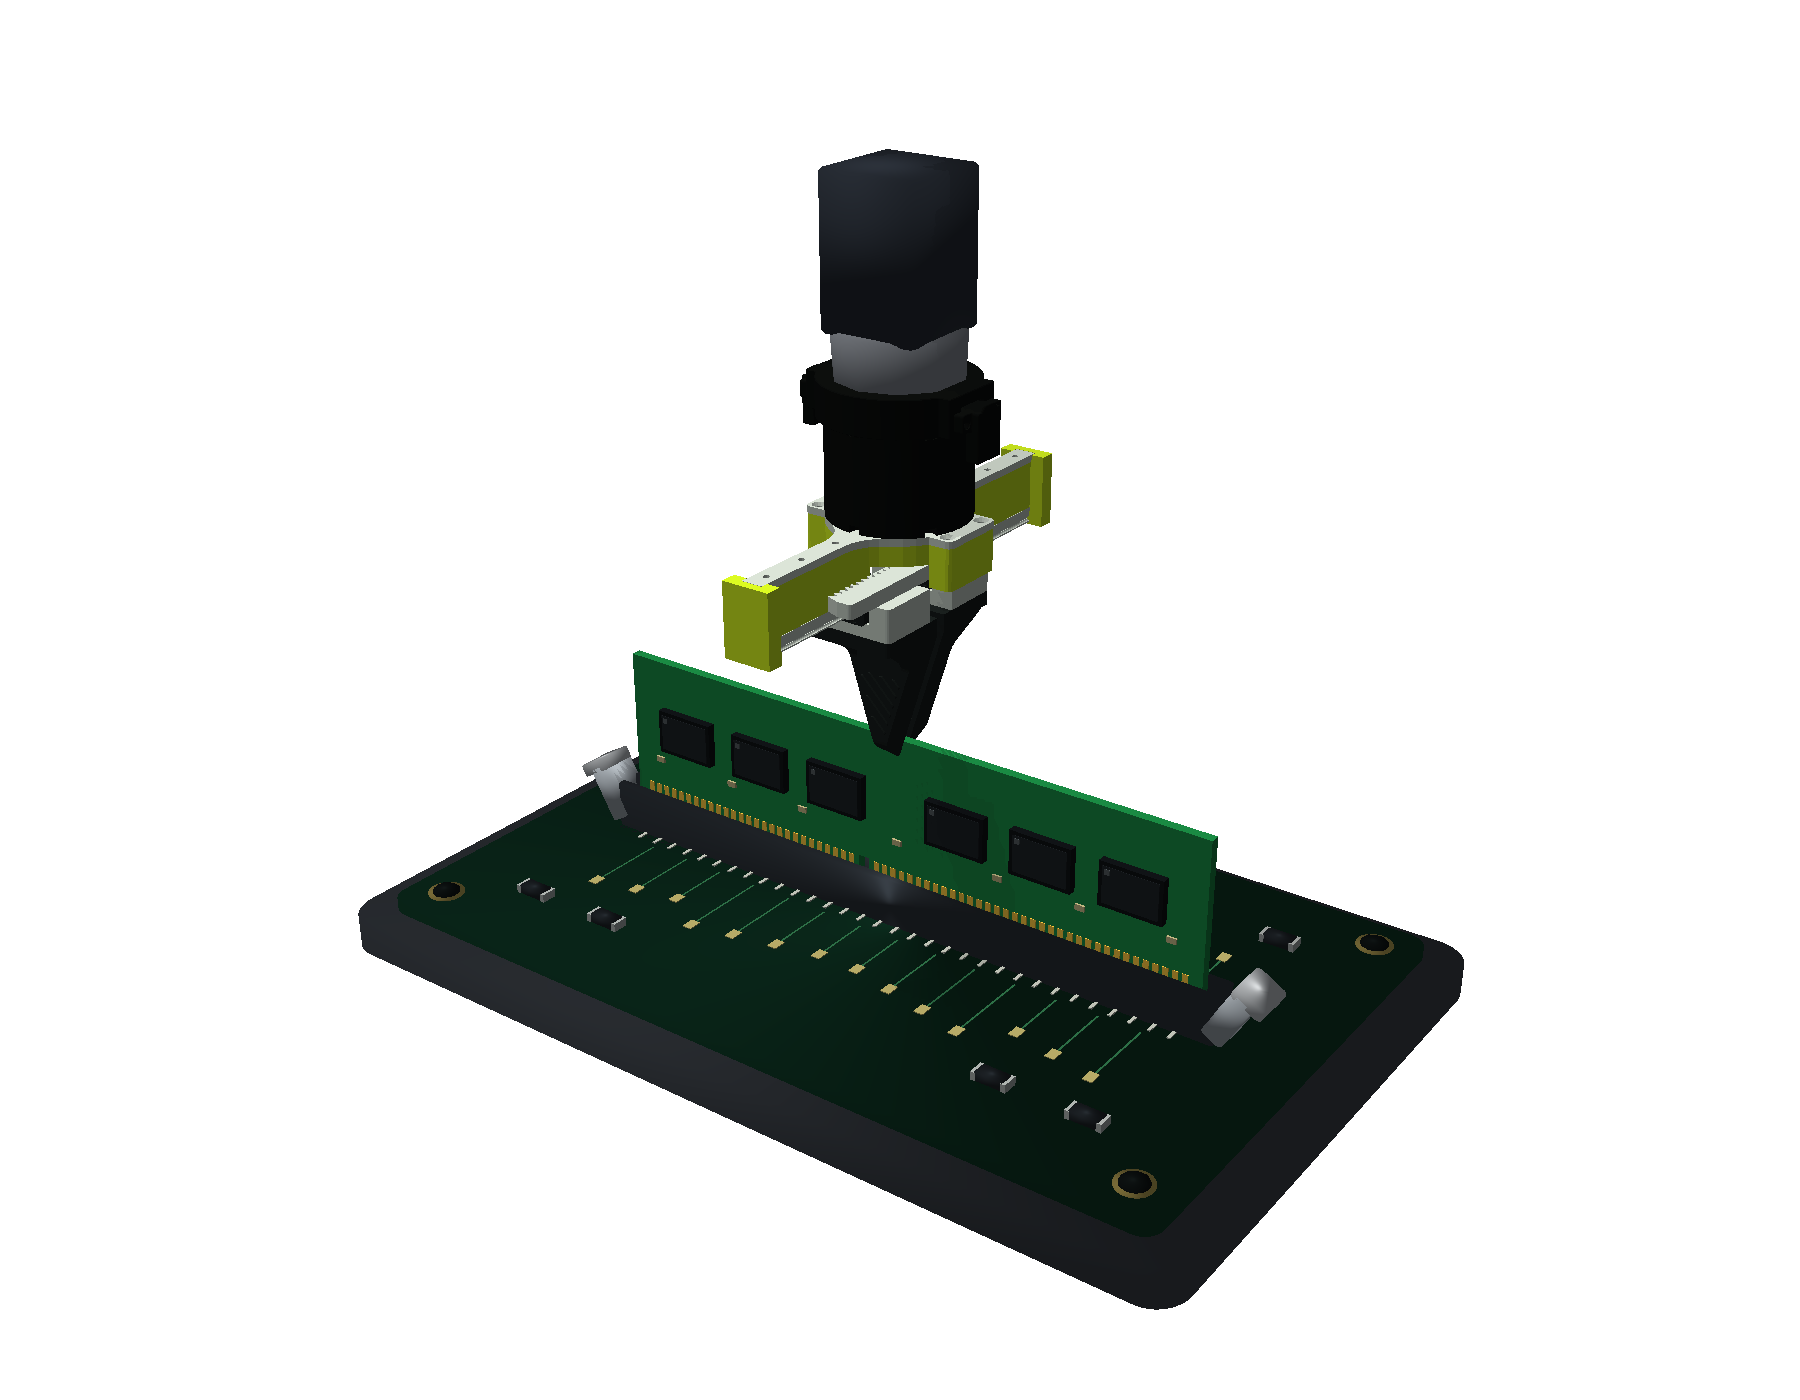
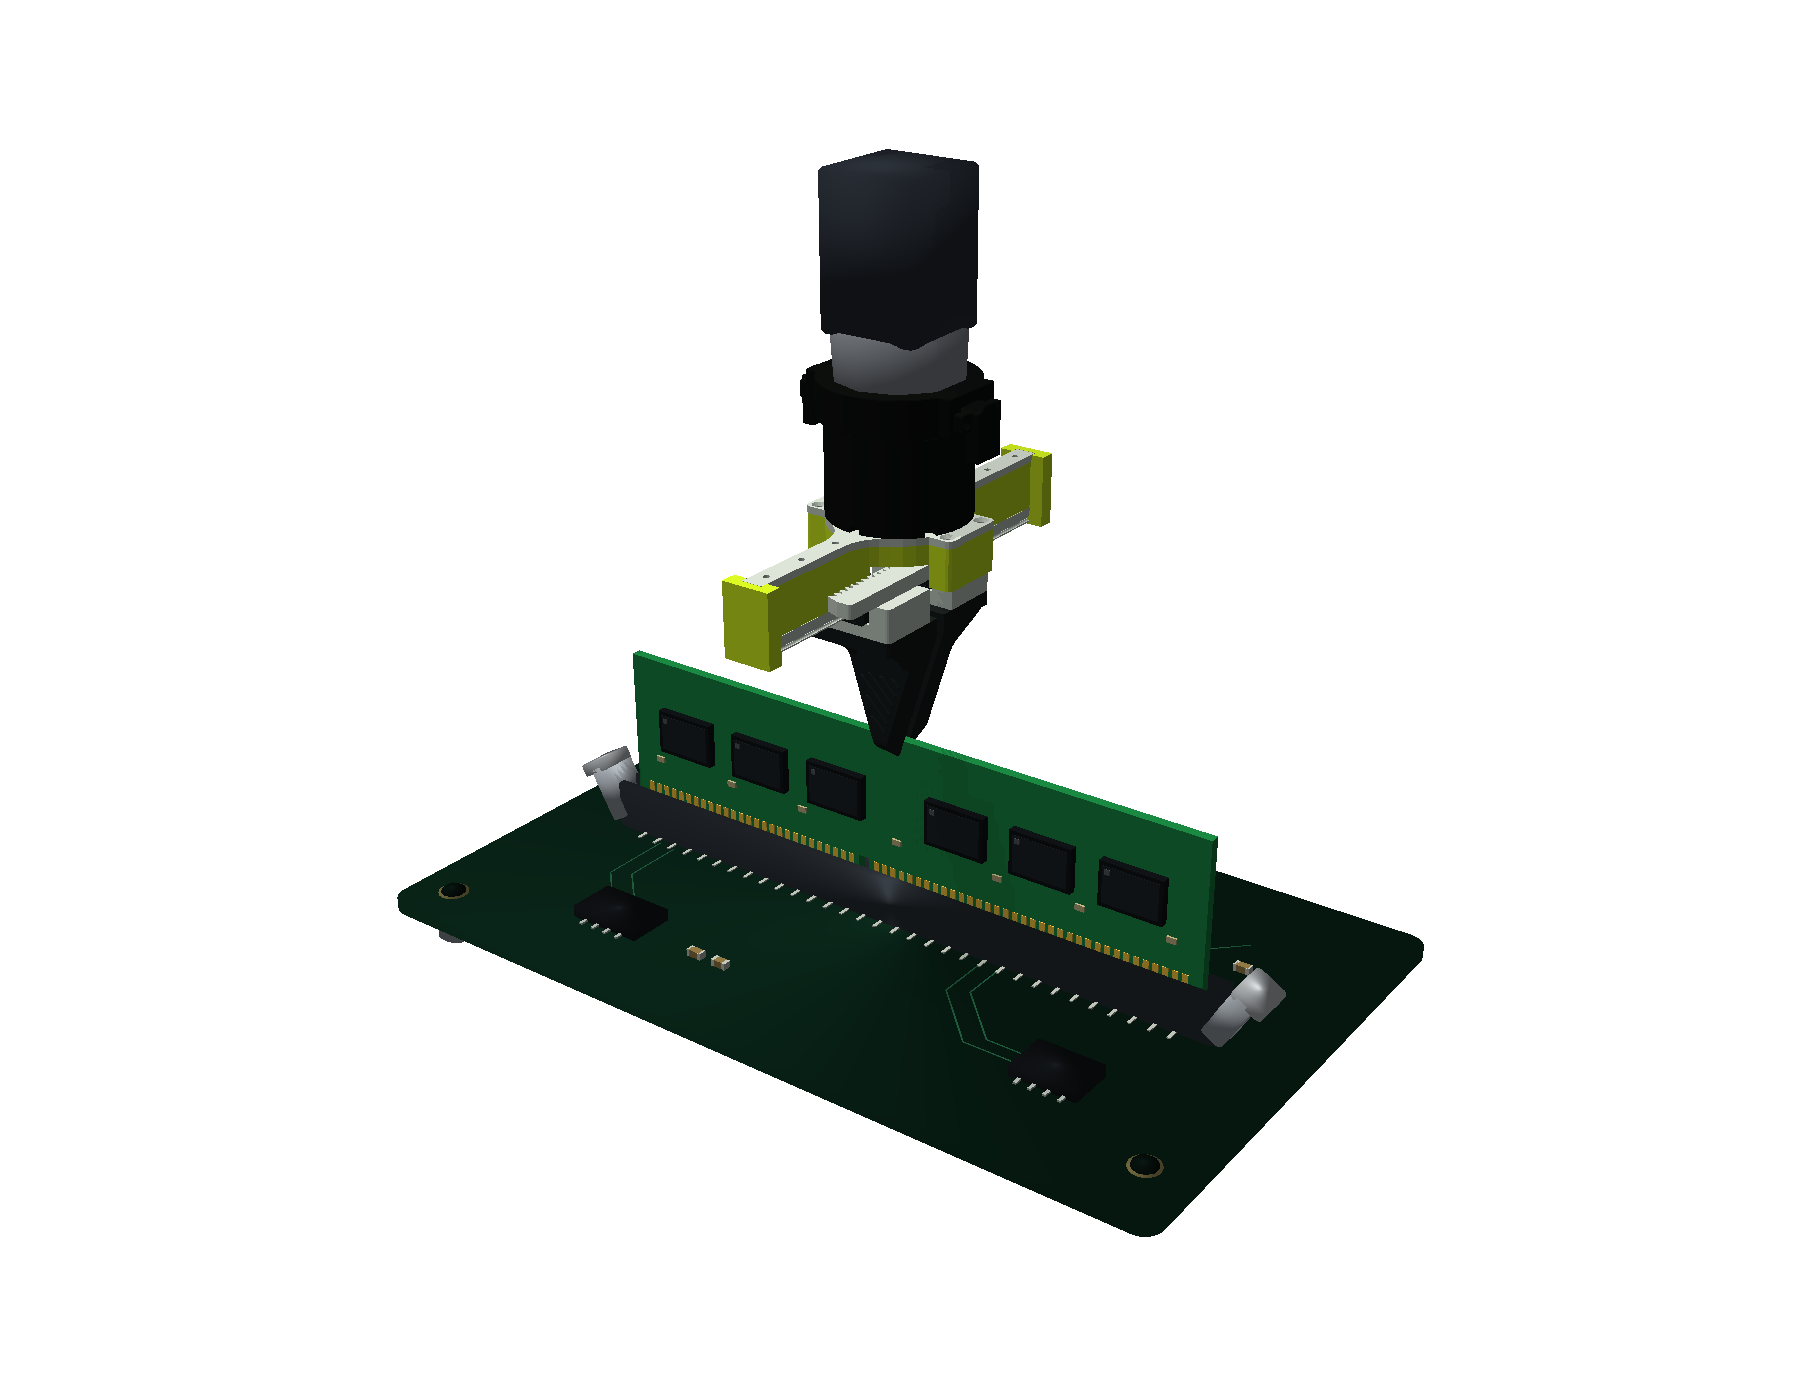
Replace PCB equalizer pattern with routed traces and spacers

diff --git a/scripts/render_pcb_workspace_b601.py b/scripts/render_pcb_workspace_b601.py
@@ -48,51 +48,36 @@ def render(*, output_dir=DEFAULT_OUTPUT_DIR, provenance_path=DEFAULT_PROVENANCE,
                 0, -1, visual, (center + R @ np.asarray(local)).tolist(), quat, physicsClientId=cid
             )
 
-        fixture = rounded_box(cid, [0.094, 0.059, 0.004], [0, 0, -0.004], [0.22, 0.24, 0.27, 1], radius=0.007)
-        rounded_box(
-            cid,
-            [0.087, 0.053, 0.0015],
-            [0, 0, 0.0015],
-            [0.055, 0.21, 0.145, 1],
-            radius=0.004,
-            bevel=0.0003,
-        )
-        for x in (-0.079, 0.079):
-            for y in (-0.045, 0.045):
-                annulus(cid, 0.0018, 0.0036, 0.0003, [x, y, 0.00315], [0.66, 0.59, 0.31, 1])
-                b601.make_cyl(cid, 0.0018, 0.0001, [x, y, 0.00315], [0.055, 0.075, 0.075, 1])
-        # Routed copper paths, solder pads, and restrained support parts.
-        for sign in (-1, 1):
-            for x in np.linspace(-0.058, 0.058, 14):
-                length = 0.012 + 0.002 * (int(abs(x) * 1000) % 4)
-                b601.make_box(
-                    cid,
-                    [0.0002, length / 2, 0.000035],
-                    [float(x), sign * (0.007 + length / 2), 0.00305],
-                    [0.15, 0.37, 0.24, 1],
-                )
-                b601.make_box(
-                    cid,
-                    [0.001, 0.0014, 0.0001],
-                    [float(x), sign * (0.008 + length), 0.00315],
-                    [0.60, 0.57, 0.35, 1],
-                )
-            for x in (-0.064, -0.045, 0.045, 0.064):
-                rounded_box(
-                    cid,
-                    [0.003, 0.0016, 0.0009],
-                    [x, sign * 0.035, 0.0039],
-                    [0.12, 0.14, 0.16, 1],
-                    radius=0.0005,
-                    bevel=0.0001,
-                )
-                for dx in (-0.0031, 0.0031):
-                    b601.make_box(
-                        cid,
-                        [0.0005, 0.00165, 0.00085],
-                        [x + dx, sign * 0.035, 0.00385],
-                        [0.58, 0.60, 0.60, 1],
-                    )
+        # Bare motherboard on three short spacers, without a generic plinth.
+        fixture = rounded_box(cid, [.087,.053,.0015], [0,0,.0015], [.055,.21,.145,1], radius=.004, bevel=.0003)
+        for x,y in ((-.078,-.044),(.078,-.040),(0,.044)):
+            b601.make_cyl(cid,.003,.006,[x,y,-.003],[.55,.58,.60,1])
+            annulus(cid,.0015,.003,.0002,[x,y,.0031],[.62,.58,.34,1])
+            b601.make_cyl(cid,.0015,.0001,[x,y,.0031],[.035,.08,.065,1])
+        # Sparse routed traces with 45-degree corners, leading to component groups.
+        # These are fixed CAD surface details, not plotted state values.
+        routes = [
+            [(-.058,-.005),(-.058,-.020),(-.046,-.032)],
+            [(-.054,-.005),(-.054,-.018),(-.043,-.029)],
+            [(.022,-.005),(.022,-.016),(.034,-.028),(.047,-.028)],
+            [(.026,-.005),(.026,-.014),(.037,-.025),(.047,-.025)],
+            [(-.025,.005),(-.025,.019),(-.013,.031),(.005,.031)],
+            [(.047,.005),(.047,.018),(.060,.031)],
+        ]
+        for route in routes:
+            for a,b in zip(route,route[1:]):
+                a,b = np.asarray(a),np.asarray(b); delta=b-a; midpoint=(a+b)/2
+                b601.make_box(cid,[float(np.linalg.norm(delta))/2,.00016,.000025],
+                    [*midpoint,.00305],[.10,.30,.20,1],orn=[0,0,math.atan2(delta[1],delta[0])])
+        for x,y,hx,hy in ((-.044,-.032,.008,.005),(.053,-.027,.007,.005),(.010,.030,.006,.004)):
+            rounded_box(cid,[hx,hy,.0012],[x,y,.0042],[.075,.09,.105,1],radius=.0005,bevel=.0001)
+            for sign in (-1,1):
+                for dx in (-.0045,-.0015,.0015,.0045):
+                    b601.make_box(cid,[.00035,.001,.0002],[x+dx,y+sign*(hy+.0006),.0034],[.58,.61,.59,1])
+        for x,y in ((-.023,-.034),(-.017,-.034),(.022,.032),(.028,.032),(.063,.022)):
+            b601.make_box(cid,[.0013,.0008,.0007],[x,y,.0037],[.48,.40,.23,1])
+            for dx in (-.0013,.0013):
+                b601.make_box(cid,[.00035,.00085,.0007],[x+dx,y,.0037],[.65,.67,.64,1])
         # Open socket channel: separate rails leave the board slot visible.
         socket = rounded_box(
             cid,
@@ -217,7 +202,7 @@ def render(*, output_dir=DEFAULT_OUTPUT_DIR, provenance_path=DEFAULT_PROVENANCE,
         camera_image(
             cid,
             camera,
-            -0.0081,
+            -0.0061,
             [-0.120, 0.120, -0.087, 0.087],
             output,
             output_dir / "pcb_workspace_clean.png" if not debug else None,
@@ -233,6 +218,8 @@ def render(*, output_dir=DEFAULT_OUTPUT_DIR, provenance_path=DEFAULT_PROVENANCE,
                 **metadata(wrenches),
                 environment=binding,
                 rendered_bodies=body_geometry(cid, fixture=fixture, socket=socket, board=board, gripper=robot),
+                fixture_material="bare motherboard on three spacers",
+                board_surface_detail="sparse routed traces and component groups",
                 pose_source="PCBEnvV2.z and PCBEnvV2.theta",
                 lift_m=lift,
                 tilt_x_rad=tx,
